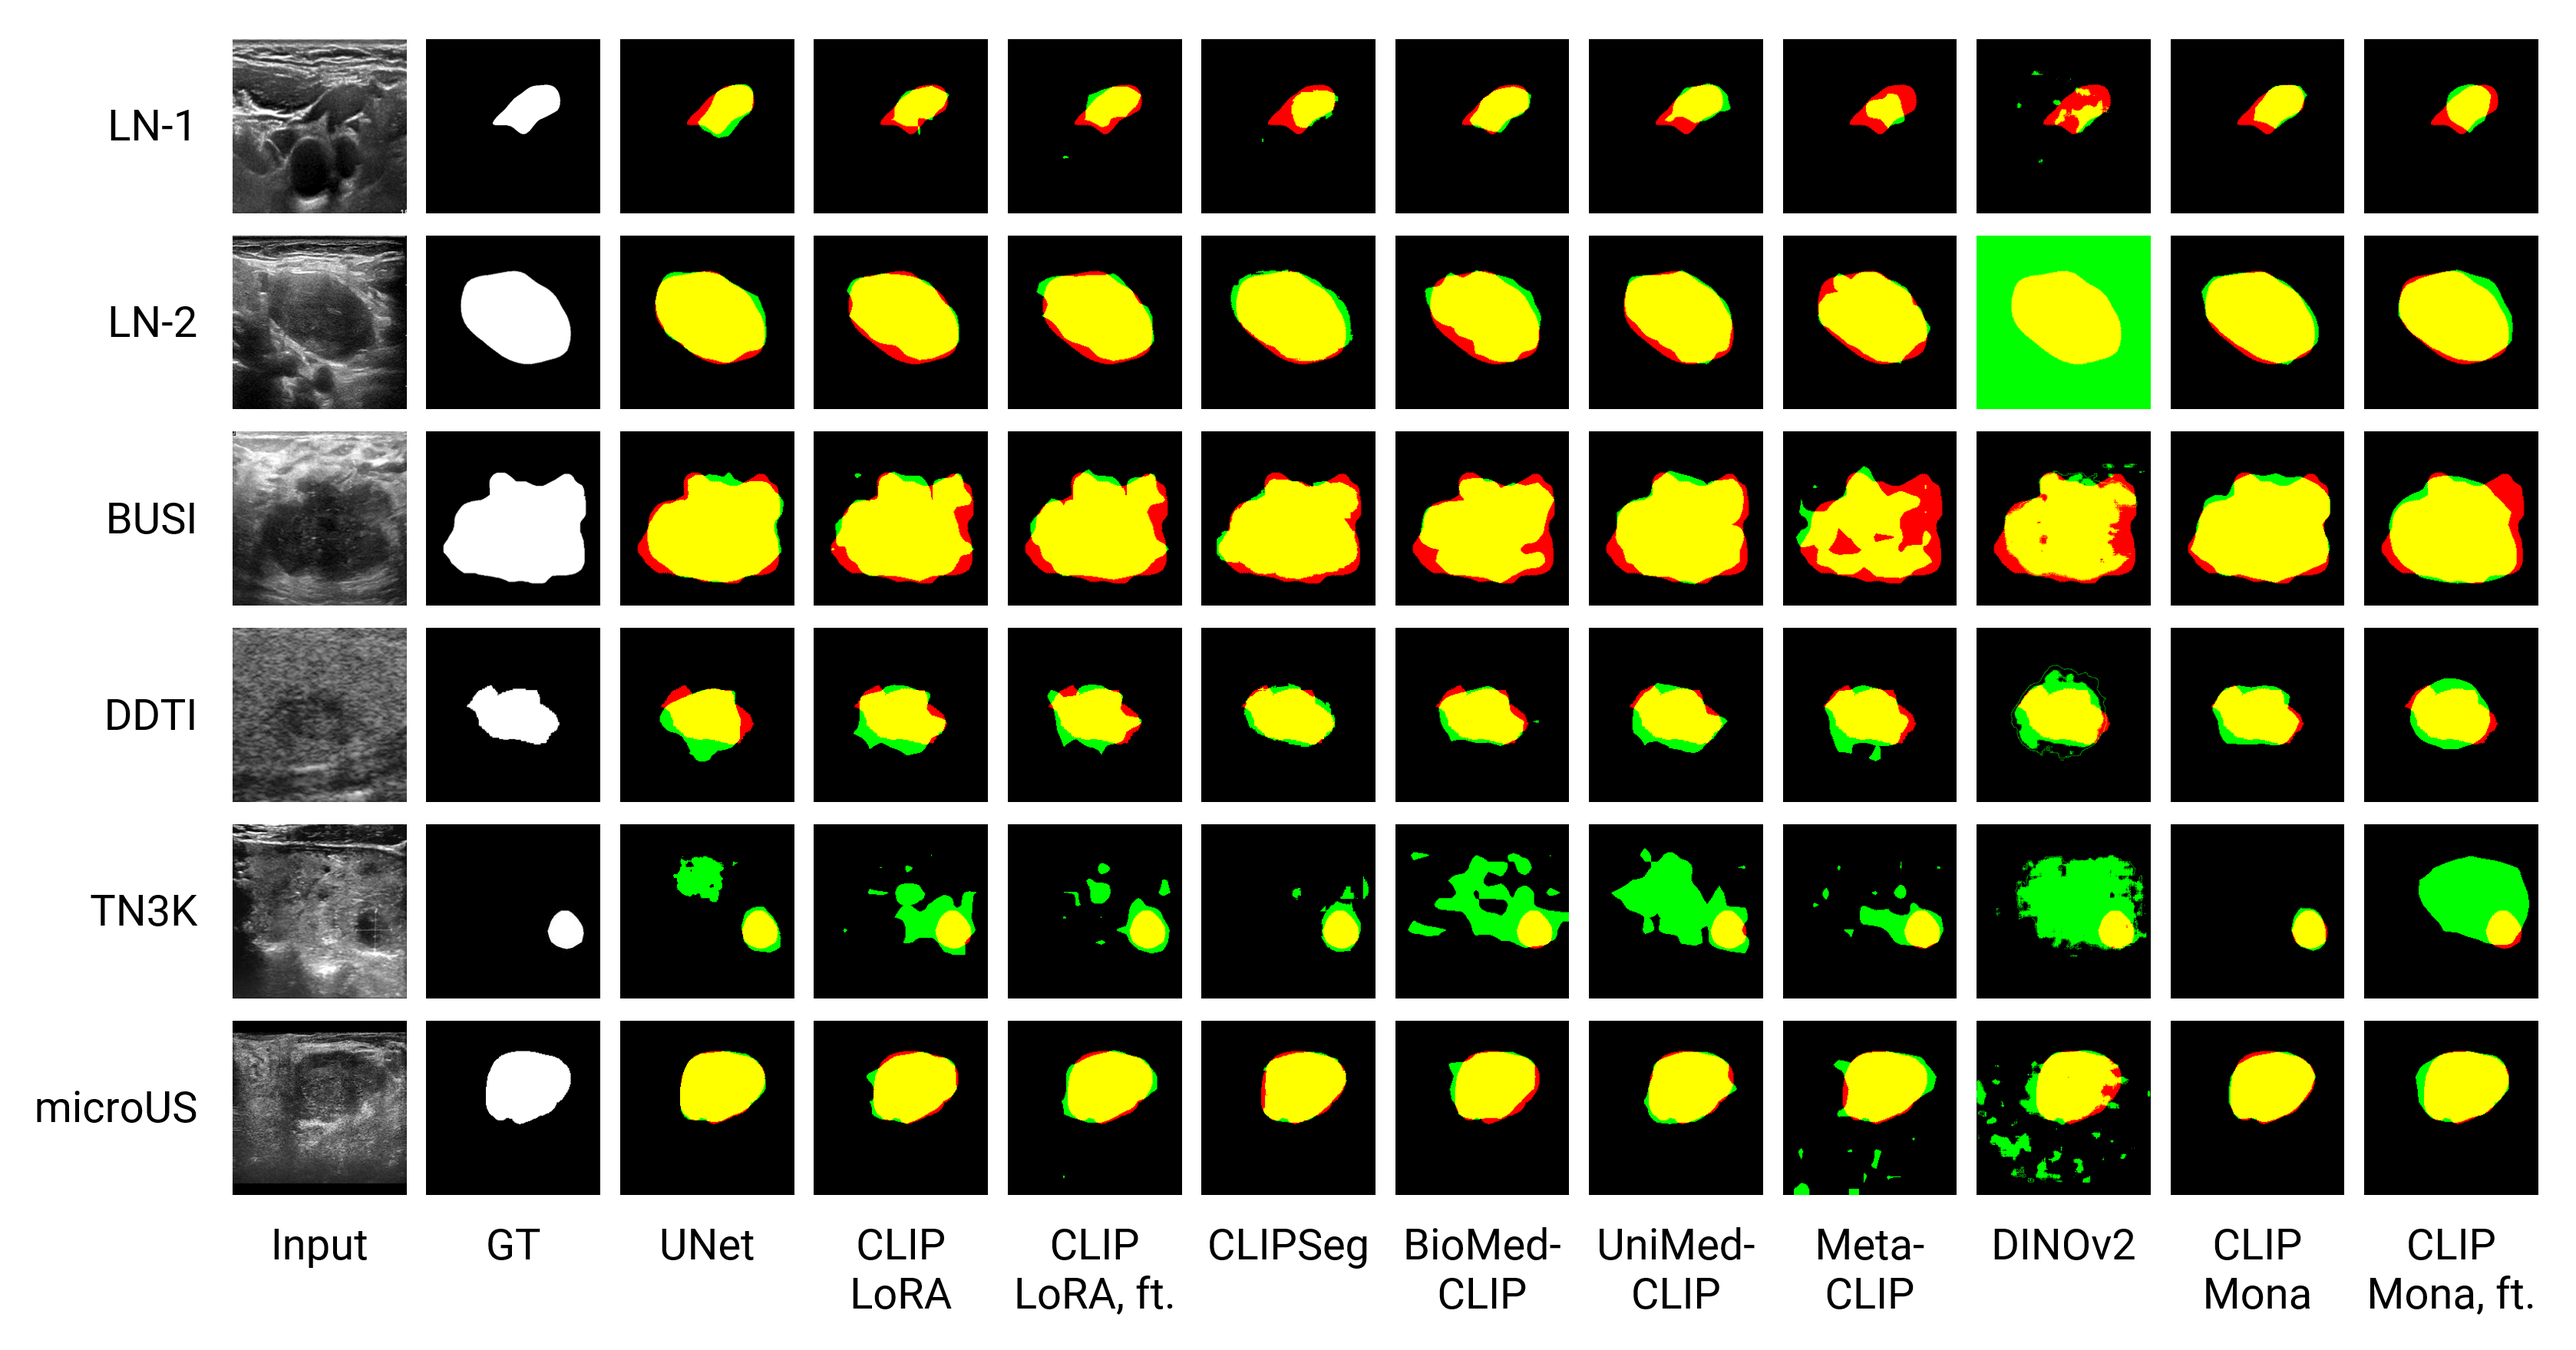
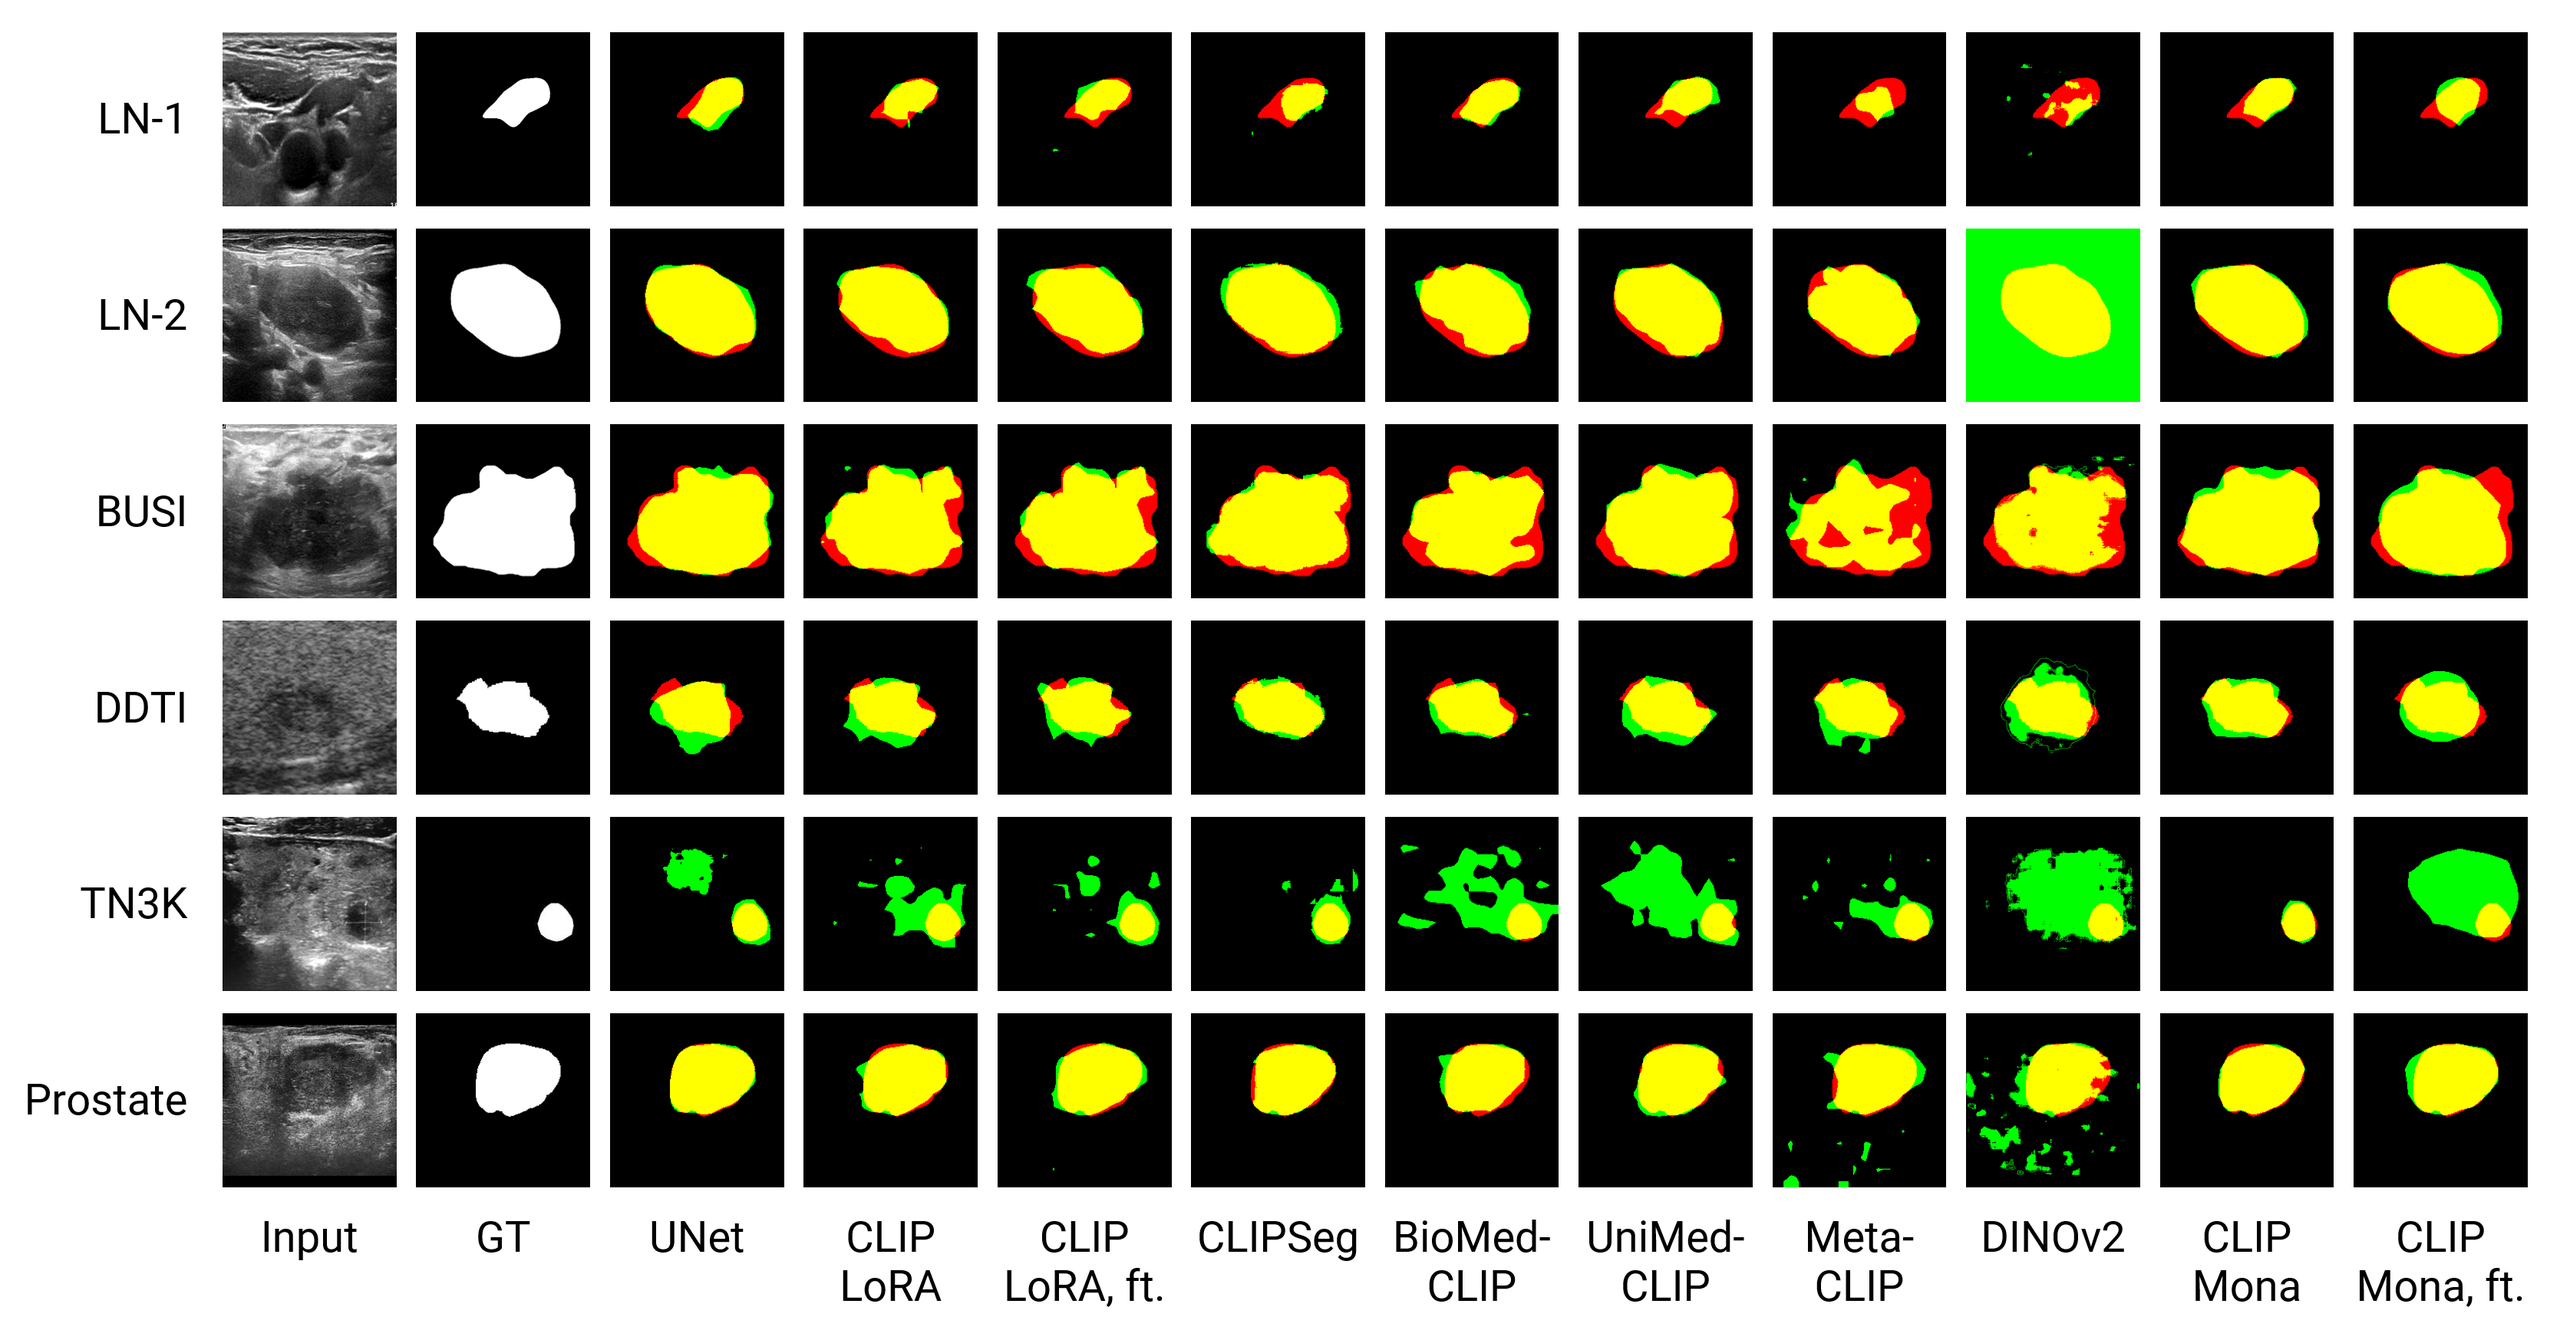
fix: update README and visualization image

diff --git a/README.md b/README.md
@@ -1,6 +1,6 @@
 # NextGen-UIA
 
-[[Paper](https://arxiv.org/abs/)] [[Dataset](https://github.com/jinggqu/NextGen-UIA/releases)] 
+[[Paper](https://arxiv.org/abs/)] [[Datasets](https://github.com/jinggqu/NextGen-UIA/releases)] 
 
 ## Results
 
@@ -52,7 +52,7 @@ root-folder
             ├── LN-1
             ├── LN-2
             ├── TN3K
-            └── microUS
+            └── Prostate
 ```
 
 Due to collaboration agreement, we cannot provide the two lymph node datasets (LN-1 and LN-2) currently. We're actively working to make these two datasets available to the public. Please stay tuned for more updates.
